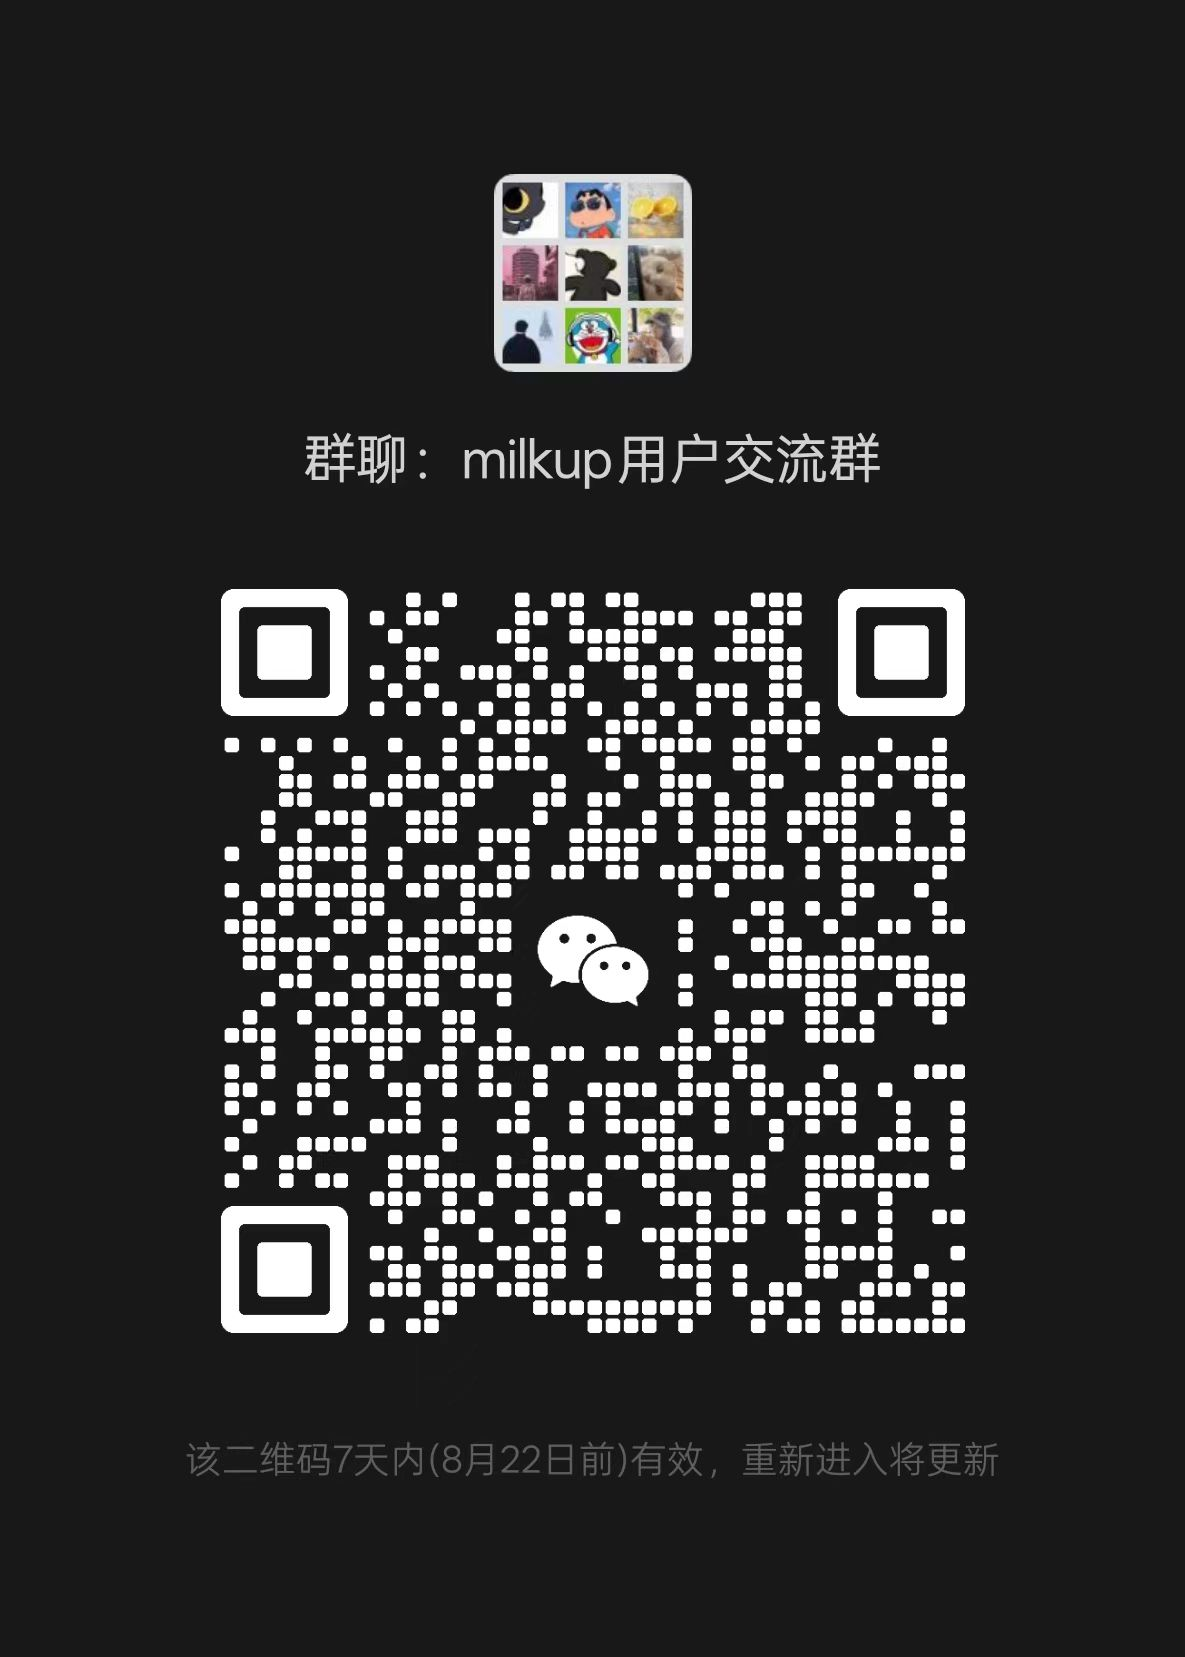
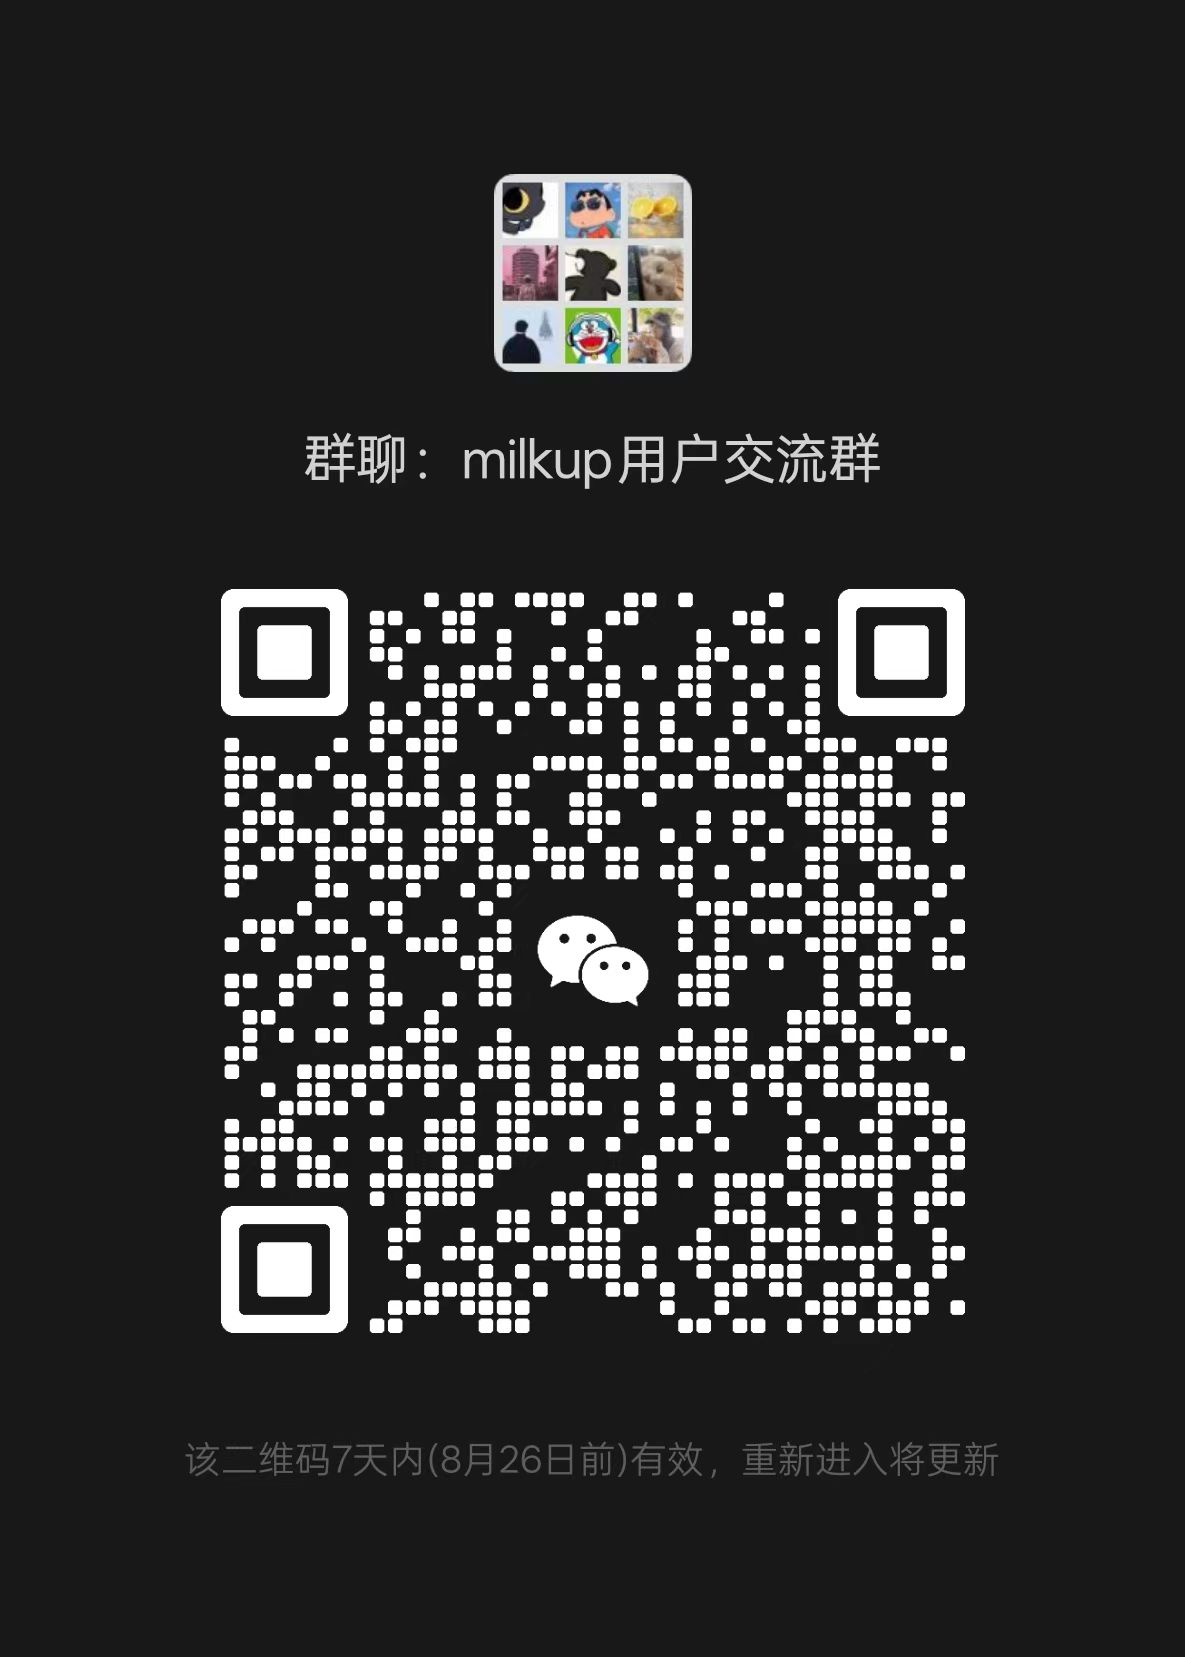
docs:更新二维码
* docs:更新二维码，修复斌哥未发现的问题

* fix:sbtrae

diff --git a/README.md b/README.md
@@ -1,4 +1,4 @@
-<div align="ce?ter">
+<div align="center">
   <img src="./src/renderer/public/logo.svg" alt="milkup Logo" width="150"> 
   <h1>milkup</h1>
   <p><strong>一个现代化的桌面端 Markdown 编辑器</strong></p>
